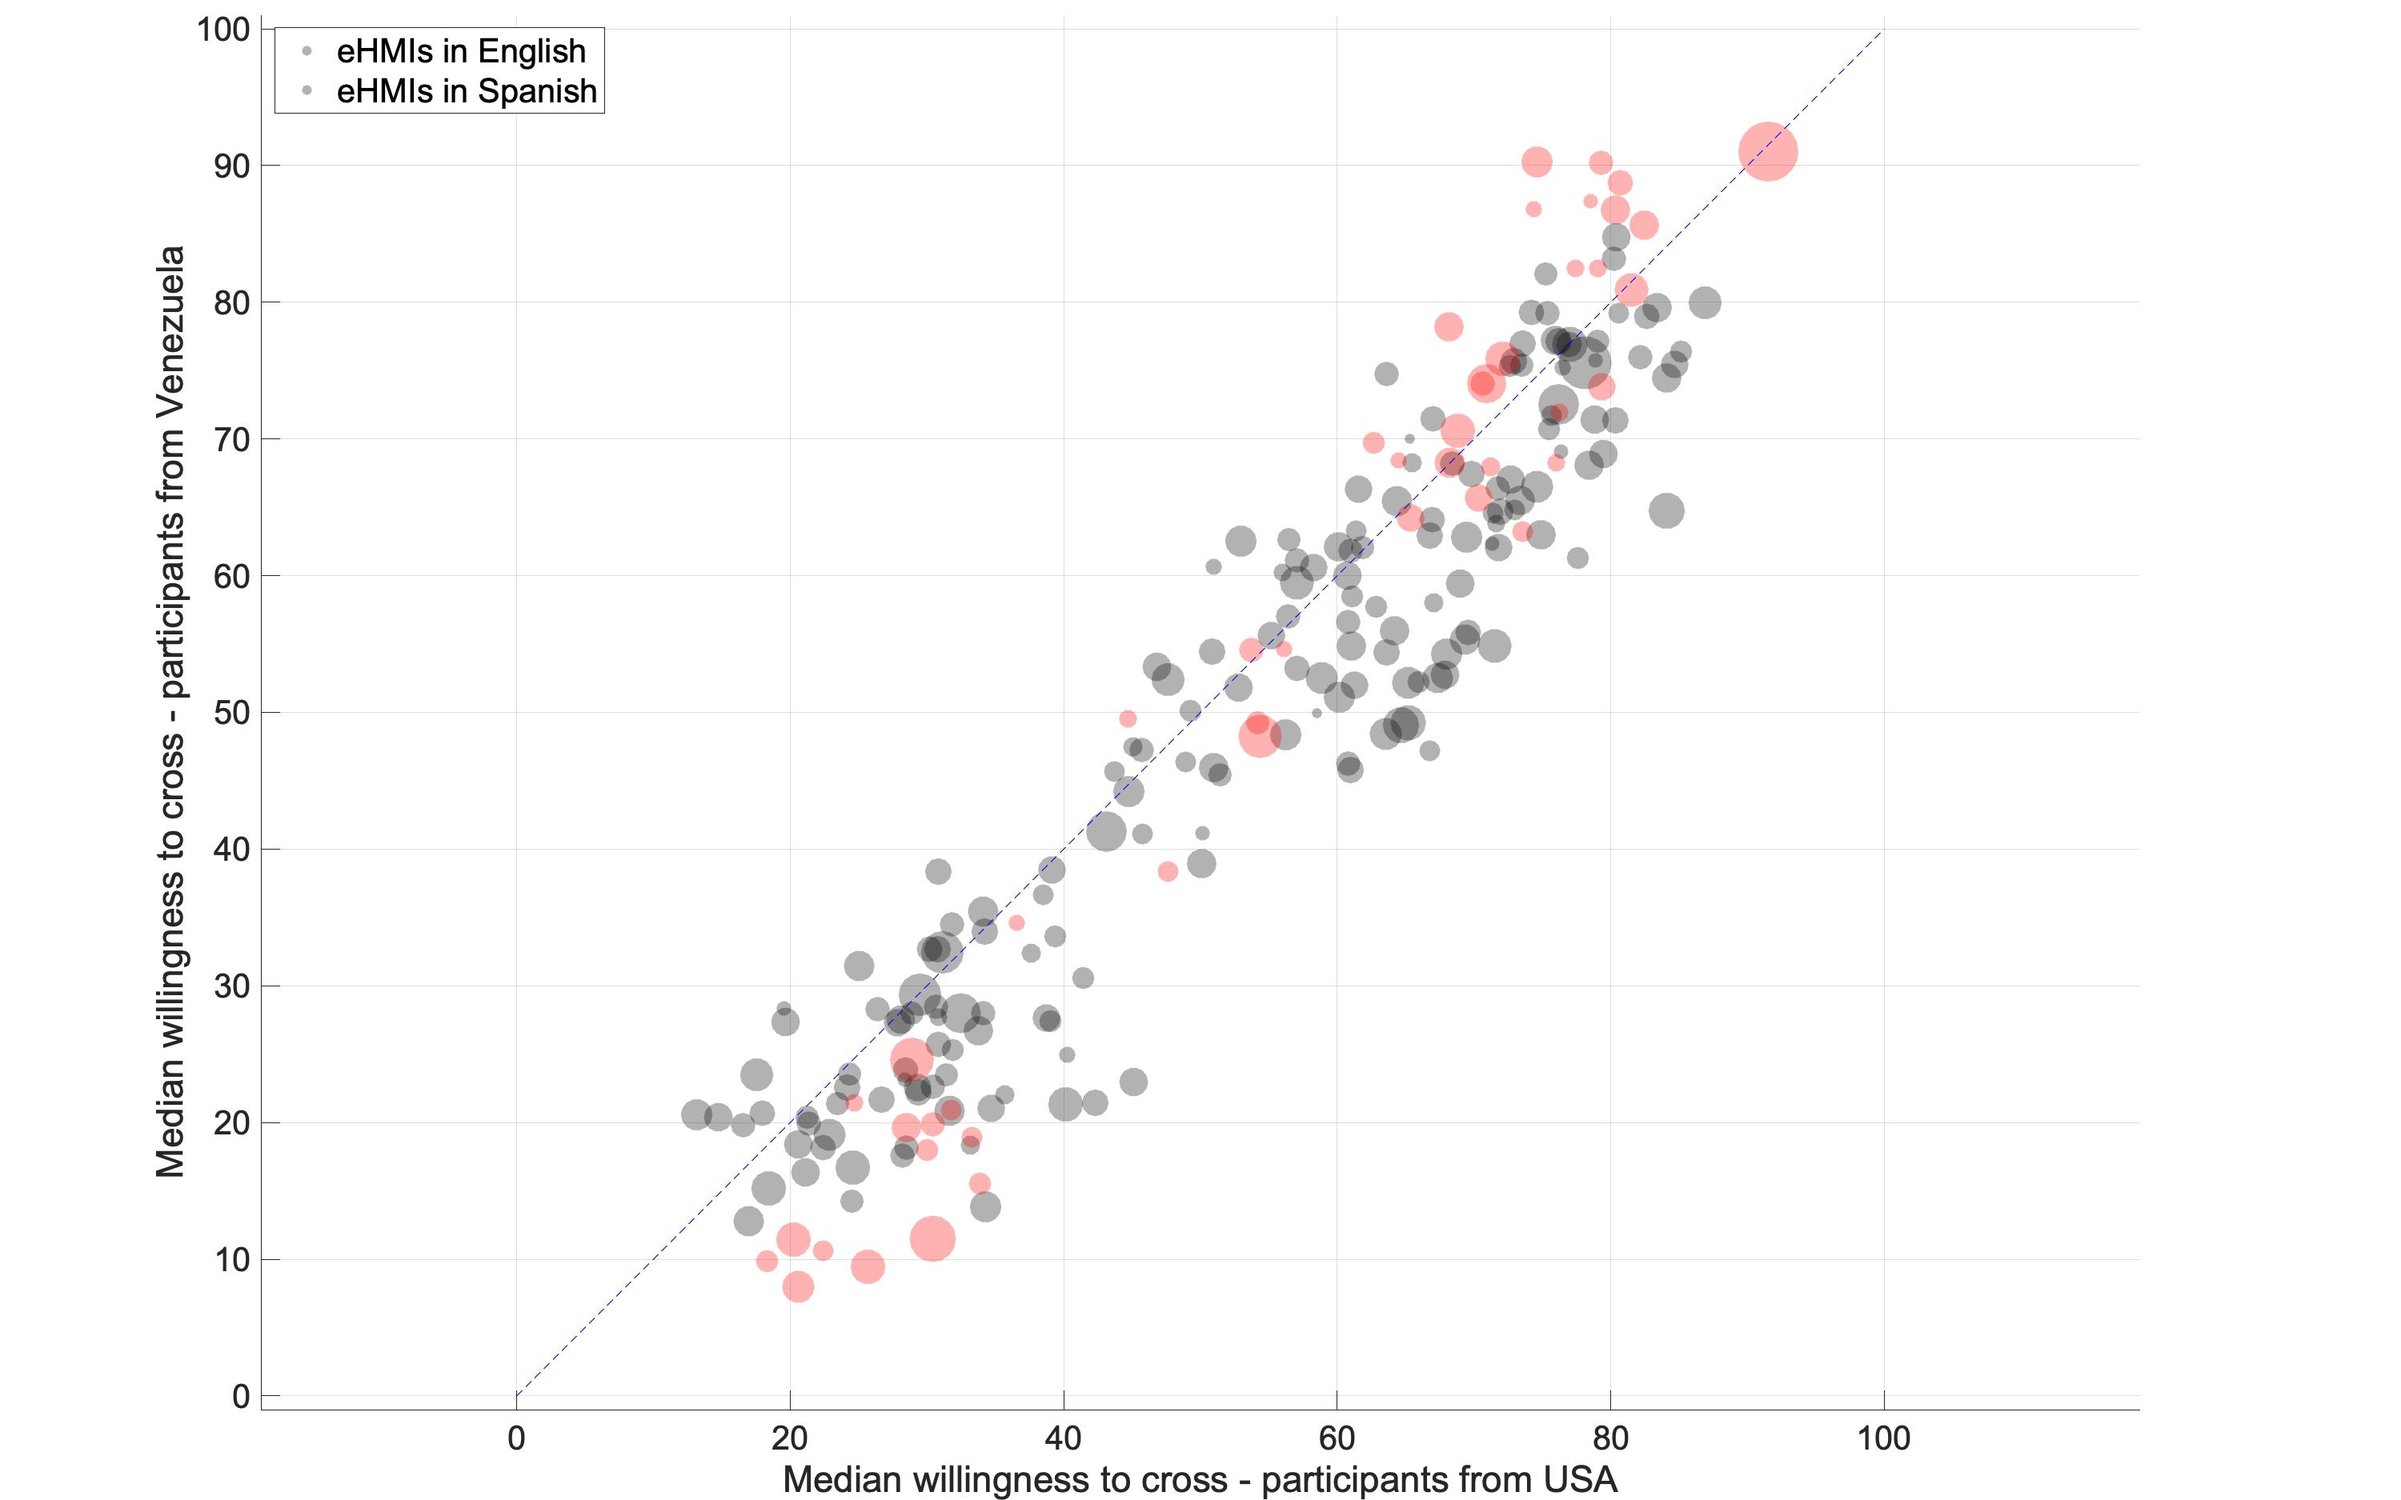
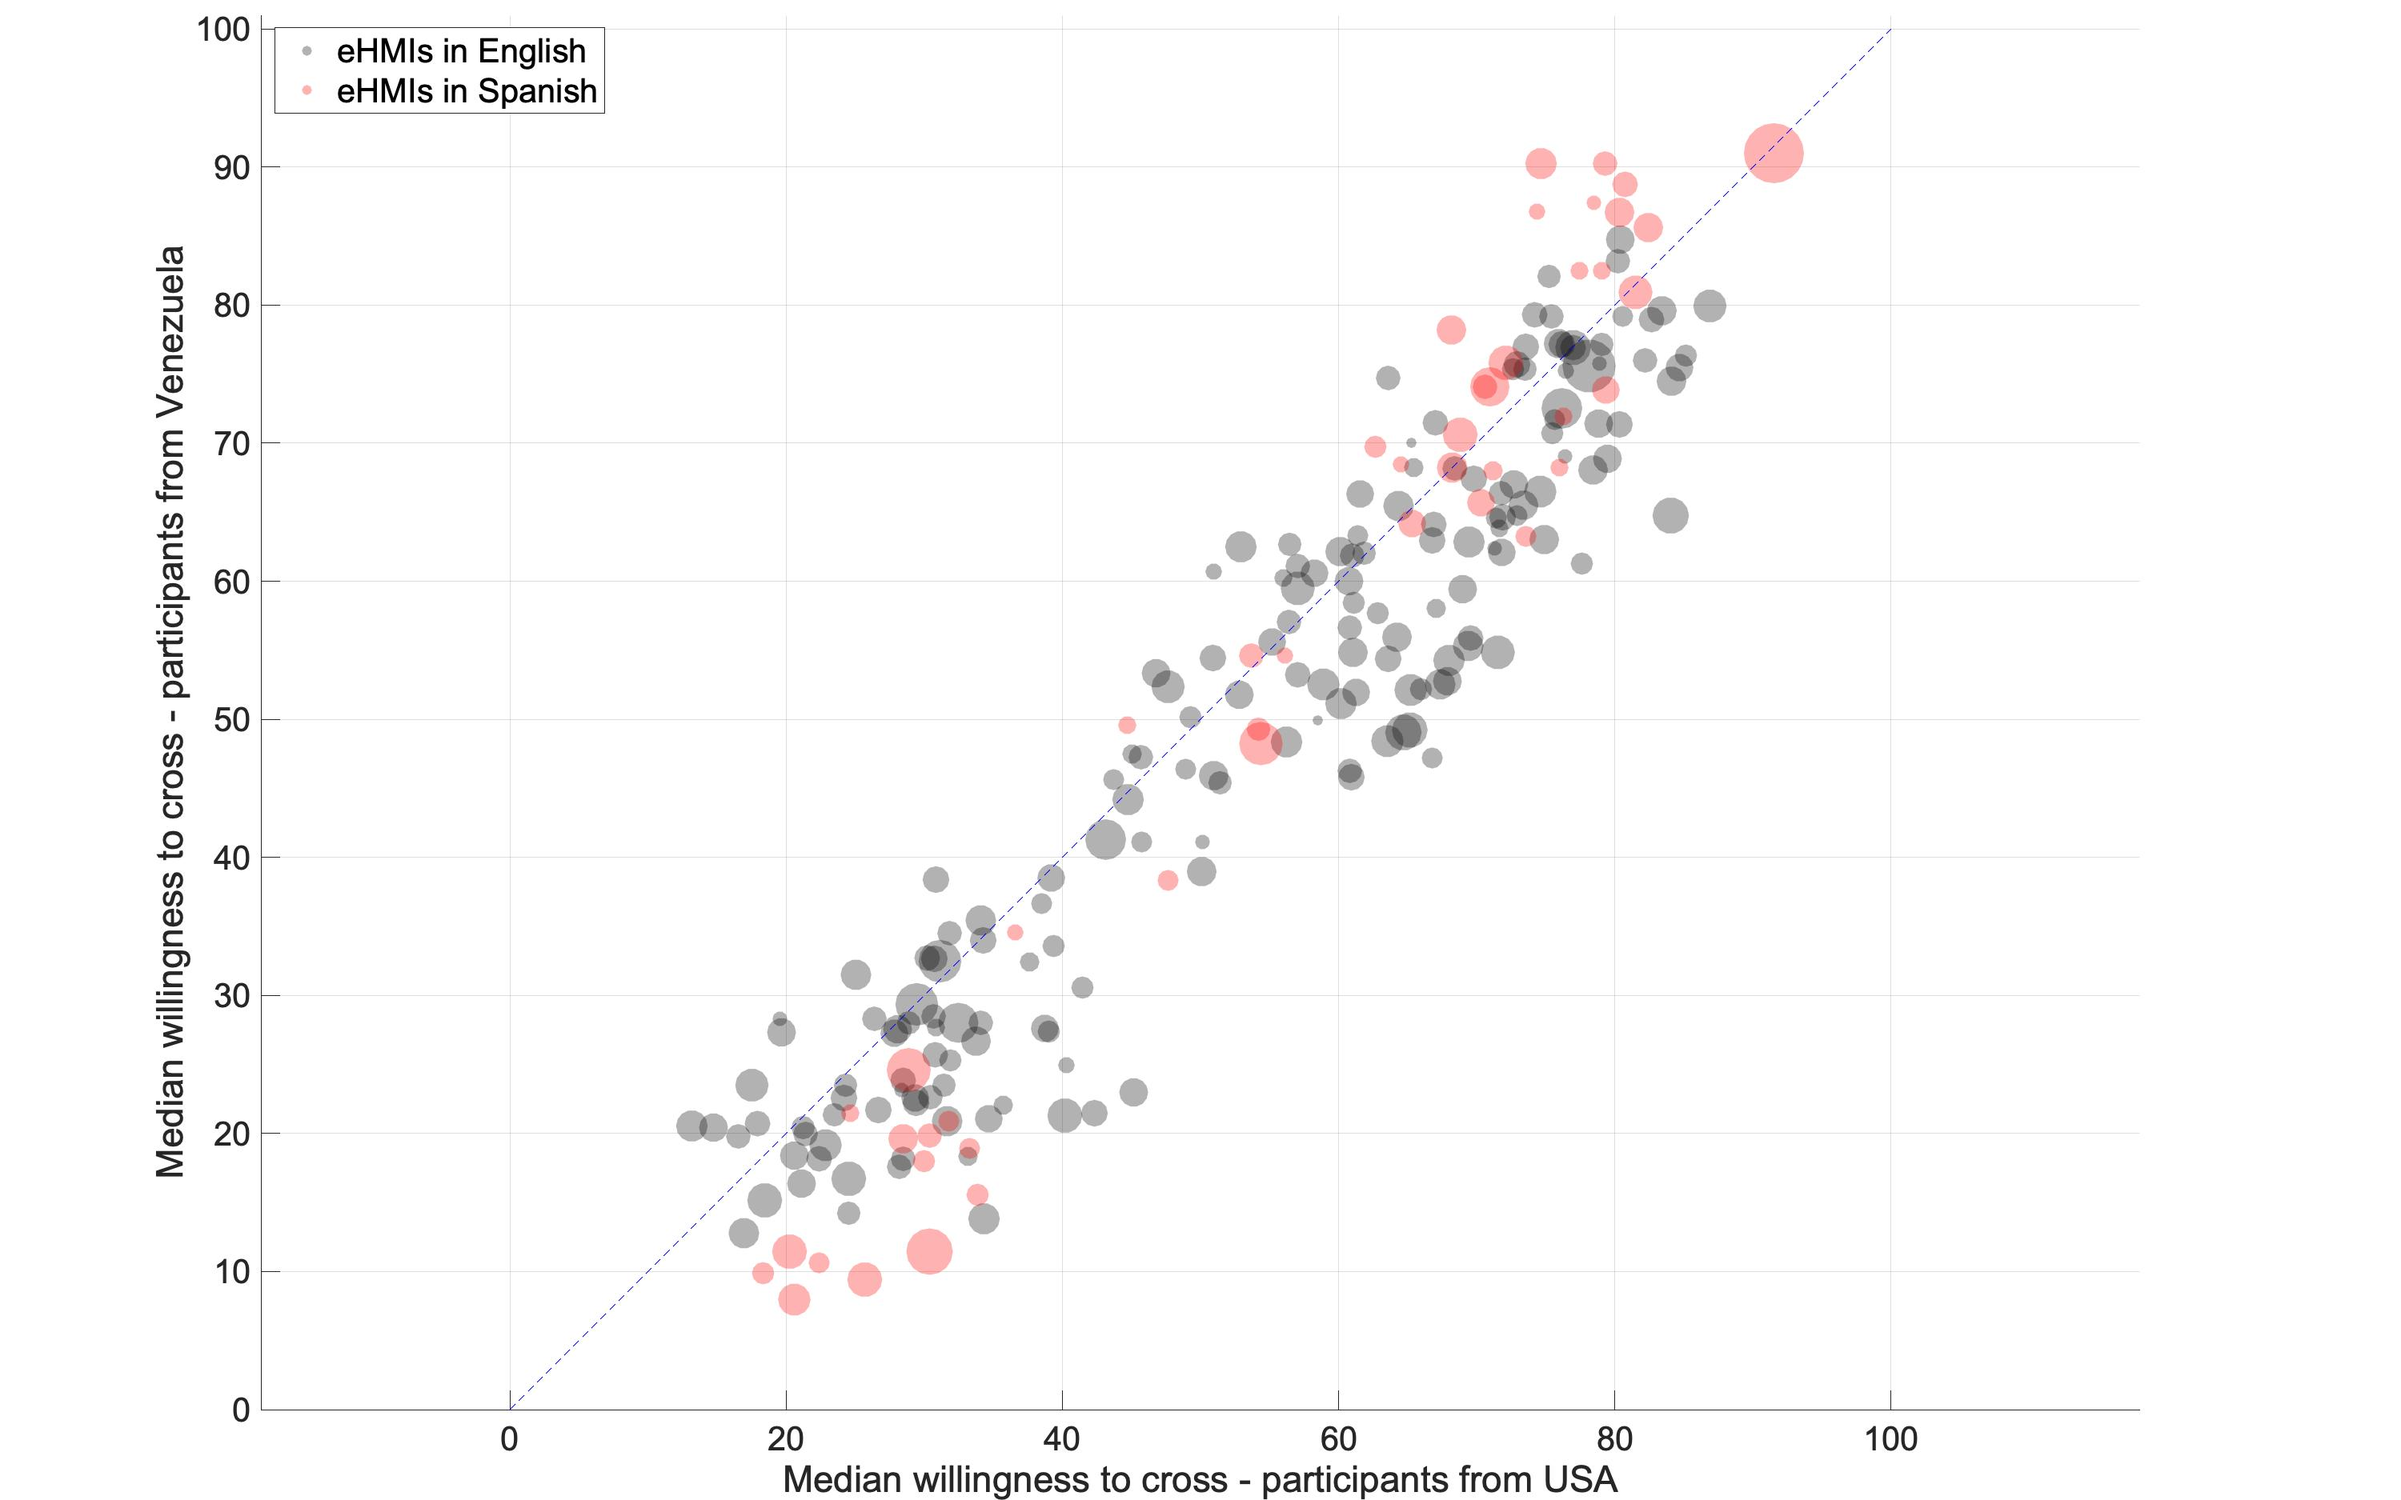
Updated scatter plots

diff --git a/textehmi/analysis/analysis.m b/textehmi/analysis/analysis.m
@@ -170,21 +170,33 @@ export_figure(gcf, [config.path_figures filesep 'sd-cross'], 'jpg')
 
 %% Slider rating USA/VEN
 figure;hold on;grid on
+clear h; % empty h object to store colour for the legend
 for i=1:180 % English eHMIs
-    scatter1=scatter(RPoMedUS(i),RPoMedVE(i),mapping{i,3}*20,'markerfacecolor','k','markeredgecolor','none');
-    scatter1.MarkerFaceAlpha = .3;
+    scatter1 = scatter(RPoMedUS(i), RPoMedVE(i), mapping{i,3}*20, ...
+                       'markerfacecolor', 'k', ...
+                       'markeredgecolor', 'none');
+    scatter1.MarkerFaceAlpha = 0.3;
+    h(1) = scatter1(1); % store 1st object for the colour in the legend
 end
 for i=181:227 % Spanish eHMIs
-    scatter2=scatter(RPoMedUS(i),RPoMedVE(i),mapping{i,3}*20,'markerfacecolor','r','markeredgecolor','none');
-    scatter2.MarkerFaceAlpha = .3;
+    scatter2 = scatter(RPoMedUS(i), RPoMedVE(i), mapping{i,3}*20, ...
+                       'markerfacecolor', 'r', ...
+                       'markeredgecolor', 'none');
+    scatter2.MarkerFaceAlpha = 0.3;
+    h(2) = scatter2(1); % store 1st object for the colour in the legend
 end
-legend('eHMIs in English','eHMIs in Spanish','autoupdate','off','location','northwest')
+legend(h, {'eHMIs in English' 'eHMIs in Spanish'}, ...
+           'autoupdate', 'off', ...
+           'location', 'northwest')
 plot([0 100],[0 100],'b--')
 xlabel('Median willingness to cross - participants from USA');
 ylabel('Median willingness to cross - participants from Venezuela');
 h=findobj('FontName','Helvetica');
 set(h,'FontSize',20,'Fontname','Arial')
-set(gca,'LooseInset',[0.01 0.01 0.01 0.01],'xlim',[-1 101],'ylim',[-1 101])
+set(gca, ...
+    'LooseInset', [0.01 0.01 0.01 0.01], ...
+    'xlim',[0 101], ...
+    'ylim',[0 101])
 axis equal
 % maximise and export as eps and jpg (for readme)
 export_figure(gcf, [config.path_output filesep 'median-cross-usa-ven'], 'epsc')
@@ -192,21 +204,33 @@ export_figure(gcf, [config.path_figures filesep 'median-cross-usa-ven'], 'jpg')
 
 %% Response time USA/VEN
 figure;hold on;grid on
-for i=1:180 % English texts
-    scatter1=scatter(RToMedUS(i),RToMedVE(i),mapping{i,3}*20,'markerfacecolor','k','markeredgecolor','none');
-    scatter1.MarkerFaceAlpha = .3;
+clear h; % empty h object to store colour for the legend
+for i=1:180 % English eHMIs
+    scatter1 = scatter(RToMedUS(i), RToMedVE(i), mapping{i,3}*20, ...
+                       'markerfacecolor', 'k', ...
+                       'markeredgecolor', 'none');
+    scatter1.MarkerFaceAlpha = 0.3;
+    h(1) = scatter1(1); % store 1st object for the colour in the legend
 end
-for i=181:227 % Spanish texts
-    scatter2=scatter(RToMedUS(i),RToMedVE(i),mapping{i,3}*20,'markerfacecolor','r','markeredgecolor','none');
-    scatter2.MarkerFaceAlpha = .3;
+for i=181:227 % Spanish eHMIs
+    scatter2 = scatter(RToMedUS(i), RToMedVE(i), mapping{i,3}*20, ...
+                       'markerfacecolor', 'r', ...
+                       'markeredgecolor', 'none');
+    scatter2.MarkerFaceAlpha = 0.3;
+    h(2) = scatter2(1); % store 1st object for the colour in the legend
 end
-legend('eHMIs in English','eHMIs in Spanish','autoupdate','off','location','northwest')
+legend(h, {'eHMIs in English' 'eHMIs in Spanish'}, ...
+           'autoupdate', 'off', ...
+           'location', 'northwest')
 plot([0 100],[0 100],'b--')
 xlabel('Median response time - Participants from USA');
 ylabel('Median response time - Participants from Venezuela');
 h=findobj('FontName','Helvetica');
 set(h,'FontSize',20,'Fontname','Arial')
-set(gca,'LooseInset',[0.01 0.01 0.01 0.01])
+set(gca, ...
+    'LooseInset', [0.01 0.01 0.01 0.01], ...
+    'xlim', [2000 10000], ...
+    'ylim', [3000 10000])
 axis equal
 % maximise and export as eps and jpg (for readme)
 export_figure(gcf, [config.path_output filesep 'response-time-usa-ven'], 'epsc')
